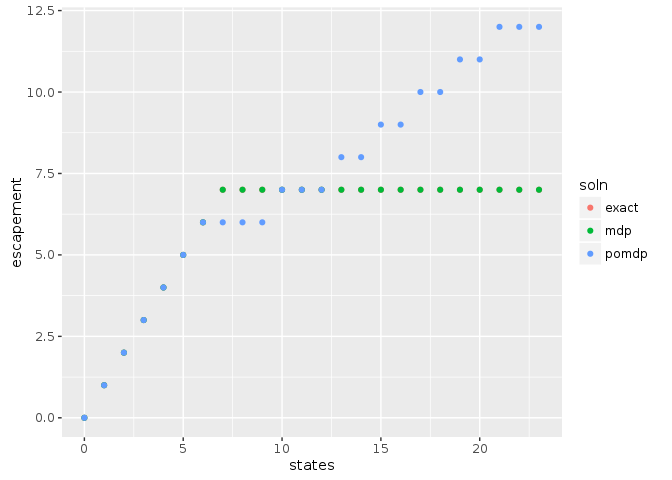
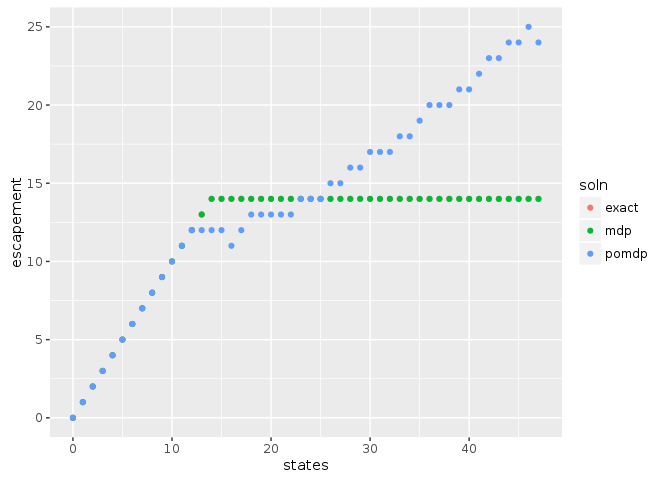
48 states, precision 20

diff --git a/inst/examples/fisheries-ex.md b/inst/examples/fisheries-ex.md
@@ -27,9 +27,9 @@ library("appl")
 
 
 ```r
-states <- 0:23
+states <- 0:47
 actions <- states
-f <- function(x, h, r = 1, K = 18){
+f <- function(x, h, r = 1, K = 33){
   s <- pmax(x - h, 0)
   s * exp(r * (1 - s / K) )
 }
@@ -135,12 +135,12 @@ for (k in 1:n_a) {
 ```r
 ## Note: parallel doesn't error intelligably and cannot be interrupted gracefully either. Debug by running:
 #system.time(soln <- pomdp(transition, observation, reward, discount, stdout = TRUE))
-system.time( soln <- pomdp(transition, observation, reward, discount, mc.cores = 4, precision = 1, memory = 3750) )
+system.time( soln <- pomdp(transition, observation, reward, discount, mc.cores = 4, precision = 20, memory = 3750) )
 ```
 
 ```
-##       user     system    elapsed 
-## 400851.461     67.518 144635.953
+##     user   system  elapsed 
+## 6070.237   17.394 2212.775
 ```
 
 
